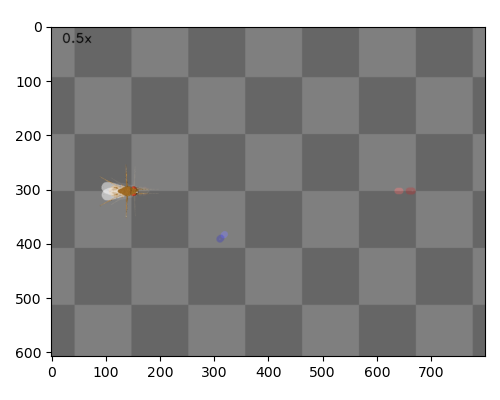
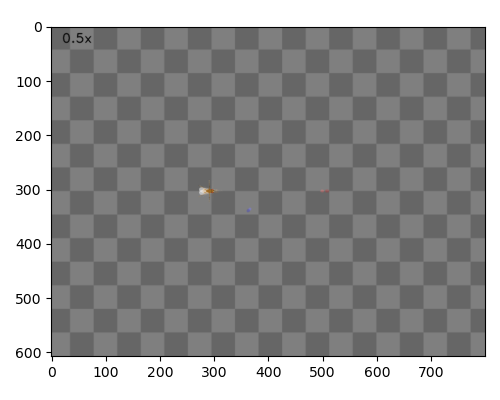
last updates

Changed region(s): [[0.09, 0.06, 0.99, 0.9], [0.33, 0.36, 0.42, 0.42], [0.33, 0.3, 0.42, 0.33]]

diff --git a/flygym/mujoco/core.py b/flygym/mujoco/core.py
@@ -1769,8 +1769,9 @@ class NeuroMechFly(gym.Env):
             if np.linalg.norm(obs["fly"][0, :2] - self.arena.odor_source[i, :2]) > 25:
                 sources_far_away += 1
         # If fly is away from all sources
-        if sources_far_away == len(self.arena.odor_source):
+        if sources_far_away == len(self.arena.odor_source) or self.curr_time > 10:
             return True
+
         return False
 
     def get_info(self):
@@ -1888,11 +1889,11 @@ class NeuroMechFly(gym.Env):
                 self._camera_rot = np.eye(3)
         self.curr_time = 0
         self._set_init_pose(self.init_pose)
-        #self._last_render_time = -np.inf
-        #self._last_vision_update_time = -np.inf
-        #self._curr_raw_visual_input = None
-        #self._curr_visual_input = None
-        #self._vision_update_mask = []
+        # self._last_render_time = -np.inf
+        # self._last_vision_update_time = -np.inf
+        # self._curr_raw_visual_input = None
+        # self._curr_visual_input = None
+        # self._vision_update_mask = []
         self._flip_counter = 0
         return self.get_observation(), self.get_info()
 

diff --git a/flygym/mujoco/arena/sensory_environment.py b/flygym/mujoco/arena/sensory_environment.py
@@ -144,7 +144,7 @@ class OdorArena(BaseArena):
             mode="fixed",
             pos=(self.odor_source[:, 0].max() / 2, 0, 35),
             euler=(0, 0, 0),
-            fovy=45,
+            fovy=90,
         )
         self.birdeye_cam_zoom = self.root_element.worldbody.add(
             "camera",
